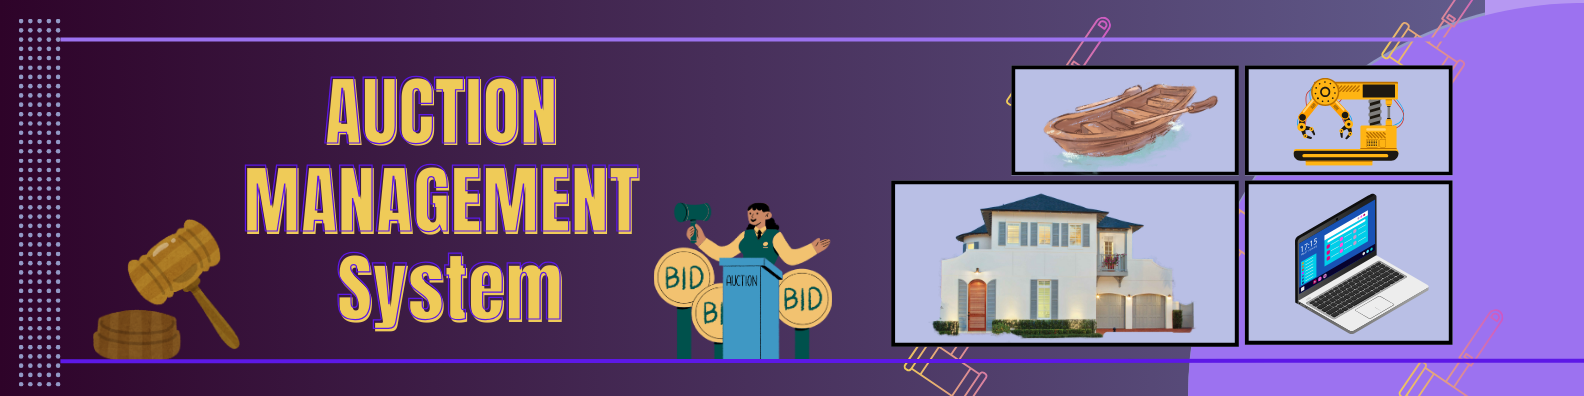
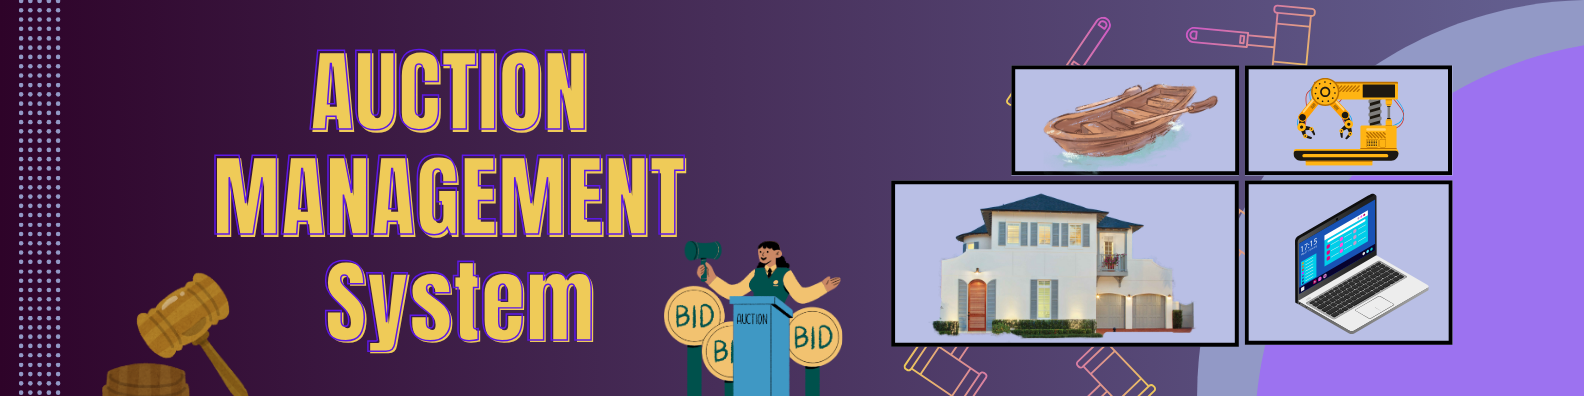
20thJune

diff --git a/src/app/component/direct-sale-assets/direct-sale-assets.component.ts b/src/app/component/direct-sale-assets/direct-sale-assets.component.ts
@@ -39,15 +39,15 @@ export class DirectSaleAssetsComponent implements OnInit, AfterViewInit {
   userId: number | null = null;
   environment = environment;
   wishlistAssetIds: number[] = [];
-  langCode:string |null = 'en';
+  langCode: string | null = 'en';
   cartAssetIds: number[] = [];
-  isRtl:boolean = false; 
+  isRtl: boolean = false;
   constructor(
     private route: ActivatedRoute,
     private assetService: ManageAssetService,
     private listService: ListService,
     private router: Router,
-    private languageService:LanguageService,
+    private languageService: LanguageService,
     private authService: AuthService,
     private dir: Directionality,
     private viewportScroller: ViewportScroller
@@ -91,30 +91,24 @@ export class DirectSaleAssetsComponent implements OnInit, AfterViewInit {
   }
 
   ngOnInit(): void {
-   const savedLayoutType = localStorage.getItem('layoutType');
+  // Load layout preference from localStorage (default: 'grid')
+  const savedLayoutType = localStorage.getItem('layoutType');
   this.layoutType = savedLayoutType === 'row' ? 'row' : 'grid';
 
-  // const entry = performance.getEntriesByType('navigation')[0] as PerformanceNavigationTiming;
-  // const isreload = entry?.type === 'reload';
-  // if(isreload){
-  //   const savedLayoutType= localStorage.getItem('layoutType');
-  //   this.layoutType =  savedLayoutType === 'row' ? 'row' : 'grid';
-  // }else{
-  //   localStorage.removeItem('layoutType');
-  //   this.layoutType = 'grid';
-  // }
+  // Scroll to top on component load
+  this.viewportScroller.scrollToPosition([0, 0]);
 
-    this.viewportScroller.scrollToPosition([0, 0]);
-    this.userId = this.authService.getUserIdJwt();
-    this.languageService.lang$.subscribe(lang => {
-        this.langCode = lang;
-         this.isRtl = lang === 'ar';
-        // this.fetchCategories(); 
-      
-      console.log("string",this.langCode)   
+  // Get user ID from JWT
+  this.userId = this.authService.getUserIdJwt();
+
+  // Subscribe to language changes
+  this.languageService.lang$.subscribe(lang => {
+    this.langCode = lang;
+    this.isRtl = lang === 'ar';
+
     const categoryId = Number(this.route.snapshot.paramMap.get('categoryId'));
     if (!isNaN(categoryId)) {
-      this.assetService.getDirectAssets(categoryId,this.langCode).subscribe({
+      this.assetService.getDirectAssets(categoryId, this.langCode).subscribe({
         next: (data) => {
           this.assets = data;
           this.originalAssets = [...data];
@@ -129,11 +123,12 @@ export class DirectSaleAssetsComponent implements OnInit, AfterViewInit {
     } else {
       Swal.fire('Error!', 'Invalid category ID');
     }
-    });
-  }
+  });
+}
+
 
   loadWishlist(): void {
-     if (!this.userId) return;
+    if (!this.userId) return;
     this.listService.getWishlist(this.userId).subscribe({
       next: (data) => {
         this.wishlistAssetIds = data.map((item: any) => item.assetId);
@@ -146,7 +141,7 @@ export class DirectSaleAssetsComponent implements OnInit, AfterViewInit {
   }
 
   loadCartItems(): void {
-     if (!this.userId) return;
+    if (!this.userId) return;
     this.listService.getCart(this.userId).subscribe({
       next: (data) => {
         this.cartAssetIds = data.map((item: any) => item.assetId);
@@ -167,45 +162,45 @@ export class DirectSaleAssetsComponent implements OnInit, AfterViewInit {
   }
 
   toggleWishlist(assetId: number): void {
-     if (!this.userId) {
-           this.showToast('User not logged in.', 'Error', 'error');
-           this.router.navigate(['/login']);
-           return;
-         }else{
-    if (this.isInWishlist(assetId)) {
-      const payload = { userId: this.userId, assetId: assetId };
-      this.listService.removeFromWishlist(payload).subscribe({
-        next: () => {
-          this.wishlistAssetIds = this.wishlistAssetIds.filter(
-            (id) => id !== assetId
-          );
-          this.showToast(`Removed from wishlist.`, 'Removed!', 'info');
-        },
-        error: (err) => {
-          this.showToast(
-            err.error.message || 'Error removing from wishlist.',
-            'Error!',
-            'error'
-          );
-        },
-      });
+    if (!this.userId) {
+      this.showToast('User not logged in.', 'Error', 'error');
+      this.router.navigate(['/login']);
+      return;
     } else {
-      const payload = { userId: this.userId, assetId: assetId, quantity: 1 };
-      this.listService.addToWishlist(payload).subscribe({
-        next: () => {
-          this.wishlistAssetIds.push(assetId);
-          this.showToast('Added to wishlist.', 'Added!', 'success');
-        },
-        error: (err) => {
-          this.showToast(
-            err.error.message || 'Error adding to wishlist.',
-            'Error!',
-            'error'
-          );
-        },
-      });
+      if (this.isInWishlist(assetId)) {
+        const payload = { userId: this.userId, assetId: assetId };
+        this.listService.removeFromWishlist(payload).subscribe({
+          next: () => {
+            this.wishlistAssetIds = this.wishlistAssetIds.filter(
+              (id) => id !== assetId
+            );
+            this.showToast(`Removed from wishlist.`, 'Removed!', 'info');
+          },
+          error: (err) => {
+            this.showToast(
+              err.error.message || 'Error removing from wishlist.',
+              'Error!',
+              'error'
+            );
+          },
+        });
+      } else {
+        const payload = { userId: this.userId, assetId: assetId, quantity: 1 };
+        this.listService.addToWishlist(payload).subscribe({
+          next: () => {
+            this.wishlistAssetIds.push(assetId);
+            this.showToast('Added to wishlist.', 'Added!', 'success');
+          },
+          error: (err) => {
+            this.showToast(
+              err.error.message || 'Error adding to wishlist.',
+              'Error!',
+              'error'
+            );
+          },
+        });
+      }
     }
-  }
   }
 
   toCart() {
@@ -237,47 +232,47 @@ export class DirectSaleAssetsComponent implements OnInit, AfterViewInit {
     this.router.navigate(['/direct-sale-assetpage/', assetId]);
   }
 
-redirectToCart(): void {
-  this.router.navigate(['/bid-add-to-cart']);
-}
+  redirectToCart(): void {
+    this.router.navigate(['/bid-add-to-cart']);
+  }
 
 
   addToCart(assetId: number): void {
-     if (!this.userId) {
-           this.showToast('User not logged in.', 'Error', 'error');
-           this.router.navigate(['/login']);
-           return;
-         }else{
-    const payload = {
-      userId: this.userId,
-      assetId: assetId,
-      quantity: 1,
-    };
+    if (!this.userId) {
+      this.showToast('User not logged in.', 'Error', 'error');
+      this.router.navigate(['/login']);
+      return;
+    } else {
+      const payload = {
+        userId: this.userId,
+        assetId: assetId,
+        quantity: 1,
+      };
 
-    this.listService.addToCart(payload).subscribe({
-      next: () => {
-        this.showToast(
-          'This asset has been added to your cart.',
-          'Success!',
-          'success'
-        );
-        // this.listService.refreshComponent();
-        this.cartAssetIds.push(assetId);
-      },
-      error: (err) => {
-        this.showToast(
-          err.error.message || 'Something went wrong while adding to cart.',
-          'Error!',
-          'error'
-        );
-      },
-    });
-  }
+      this.listService.addToCart(payload).subscribe({
+        next: () => {
+          this.showToast(
+            'This asset has been added to your cart.',
+            'Success!',
+            'success'
+          );
+          // this.listService.refreshComponent();
+          this.cartAssetIds.push(assetId);
+        },
+        error: (err) => {
+          this.showToast(
+            err.error.message || 'Something went wrong while adding to cart.',
+            'Error!',
+            'error'
+          );
+        },
+      });
+    }
   }
 
   goBack() {
     localStorage.removeItem('layoutType');
     window.history.back();
   }
-  
+
 }

diff --git a/src/app/component/landing-page/featured-assets/featured-assets.component.html b/src/app/component/landing-page/featured-assets/featured-assets.component.html
@@ -2,23 +2,27 @@
   <div class="scroll-track">
     <div class="scroll-card" *ngFor="let asset of featuredAssets" (click)="openAssetModal(asset)">
       <img [src]="getImageUrl(asset.galleryFilePaths)" alt="{{ asset.title }}">
-      <div class="scroll-title">{{ asset.title }}</div>
+      <div class="scroll-title">
+        <span class="gradient-text">{{ asset.title }}</span>
+      </div>
+
     </div>
   </div>
 </div>
 
-<!-- Modal -->
 <ng-template #assetModal let-modal>
   <div class="modal-header">
-    <h4 class="modal-title">{{ selectedAsset?.title }}</h4>
-    <button type="button" class="btn-close" aria-label="Close" (click)="modal.dismiss('Cross click')"></button>
+    <h5 class="modal-title">{{ selectedAsset?.title }}</h5>
+    <button type="button" class="btn-close" aria-label="Close" (click)="modal.dismiss()"></button>
   </div>
+
   <div class="modal-body">
-    <img [src]="getImageUrl(selectedAsset?.galleryFilePaths)" class="img-fluid mb-2" *ngIf="selectedAsset?.galleryFilePaths">
-    <p><strong>Description:</strong> {{ selectedAsset?.description }}</p>
-    <p><strong>Category:</strong> {{ selectedAsset?.categoryName }}</p>
-    <p><strong>Starting Price:</strong> ₹{{ selectedAsset?.startingPrice }}</p>
-    <p><strong>Status:</strong> {{ selectedAsset?.statusName }}</p>
-    <!-- Add more fields as needed -->
+    <img [src]="getImageUrl(selectedAsset?.galleryFilePaths)" class="img-fluid mb-3" *ngIf="selectedAsset?.galleryFilePaths">
+    <p>{{ selectedAsset?.description }}</p>
+  </div>
+
+  <div class="modal-footer">
+    <button class="btn btn-outline-primary" (click)="navigateToDetail(selectedAsset?.assetId, modal)">View More</button>
+    <button class="btn btn-secondary" (click)="modal.dismiss()">Close</button>
   </div>
 </ng-template>

diff --git a/src/app/component/landing-page/featured-assets/featured-assets.component.ts b/src/app/component/landing-page/featured-assets/featured-assets.component.ts
@@ -6,6 +6,7 @@ import { ApiEndpoints } from '../../../constants/api-endpoints';
 import { Asset } from '../../../modals/manage-asset';
 import { FeaturedAssetsService } from '../../../services/featured-assets.service';
 import { environment } from '../../../constants/enviroments';
+import { Router } from '@angular/router';
 
 @Component({
   selector: 'app-featured-assets',
@@ -23,7 +24,8 @@ export class FeaturedAssetsComponent implements OnInit {
 
   constructor(
     private featuredAssetsService: FeaturedAssetsService,
-    private modalService: NgbModal
+    private modalService: NgbModal,
+    private router: Router
   ) {}
 
   ngOnInit(): void {
@@ -39,7 +41,19 @@ export class FeaturedAssetsComponent implements OnInit {
   const filePaths = path.split(','); // supports multiple files
   return `${environment.imgUrl}${filePaths[0].trim()}`;
 }
-
+//   (assetId: number | undefined | null, modal: any): void {
+//   if (assetId) {
+//     modal.close();
+//     this.router.navigate(['/asset-details', assetId]);
+//   }
+// }
+navigateToDetail(assetId: number | undefined , modal: any): void {
+    if (assetId) {
+      modal.close();
+      const encodedUserId = btoa(assetId.toString());
+      this.router.navigate(['/asset-details'], { queryParams: { id: encodedUserId } });
+    }
+  }
 
 
   openAssetModal(asset: Asset) {

diff --git a/src/app/services/assetcategories.service.ts b/src/app/services/assetcategories.service.ts
@@ -9,7 +9,7 @@ import { AssetCategory, CategoryTranslation } from '../modals/assetcategories';
 })
 export class AssetCategoriesService {
 
-  constructor(private http: HttpClient) {}
+  constructor(private http: HttpClient) { }
 
   getAll(): Observable<AssetCategory[]> {
     return this.http.get<AssetCategory[]>(`${ApiEndpoints.ASSETCATEGORIES}`);
@@ -31,9 +31,15 @@ export class AssetCategoriesService {
     return this.http.delete<void>(`${ApiEndpoints.ASSETCATEGORIES}/${id}`);
   }
   fetchCategoryTranslations(langCode: string | null): Observable<CategoryTranslation[]> {
-  return this.http.get<CategoryTranslation[]>(
-    `${ApiEndpoints.ASSETCATEGORIES}/langCat/${langCode}`
-  );
-}
+    return this.http.get<CategoryTranslation[]>(
+      `${ApiEndpoints.ASSETCATEGORIES}/langCat/${langCode}`
+    );
+  }
+  getDirectAssets(categoryId: number, lang: string | null): Observable<AssetCategory[]> {
+    return this.http.get<AssetCategory[]>(
+      `${ApiEndpoints.ASSETCATEGORIES}/${categoryId}?langCode=${lang}`
+    );
+  }
+
 
 }

diff --git a/src/app/component/landing-page/featured-assets/featured-assets.component.css b/src/app/component/landing-page/featured-assets/featured-assets.component.css
@@ -38,12 +38,21 @@
   position: absolute;
   top: 10px;
   left: 10px;
-  background-color: rgba(0, 0, 0, 0.5);
-  color: #00cc44;
+  background-color: rgba(0, 0, 0, 0.70); /* Dark background strip */
   padding: 4px 10px;
-  font-weight: bold;
   border-radius: 4px;
 }
+
+.gradient-text {
+  font-weight: bold;
+ background-image: linear-gradient(90deg, #3a8dde, #8f60ff);
+
+  -webkit-background-clip: text;
+  -webkit-text-fill-color: transparent;
+  background-clip: text;
+  color: transparent;
+}
+
 
 @keyframes scroll-left {
   0% {

diff --git a/src/app/services/asset.service.ts b/src/app/services/asset.service.ts
@@ -67,7 +67,7 @@ export class ManageAssetService {
   }
 
  
-
+  
   deleteAssetGallery(galleryId: string): Observable<void> {
   const url = `${ApiEndpoints.ASSETGALLERY}/delete/${galleryId}`;
   return this.http.delete<void>(url);
